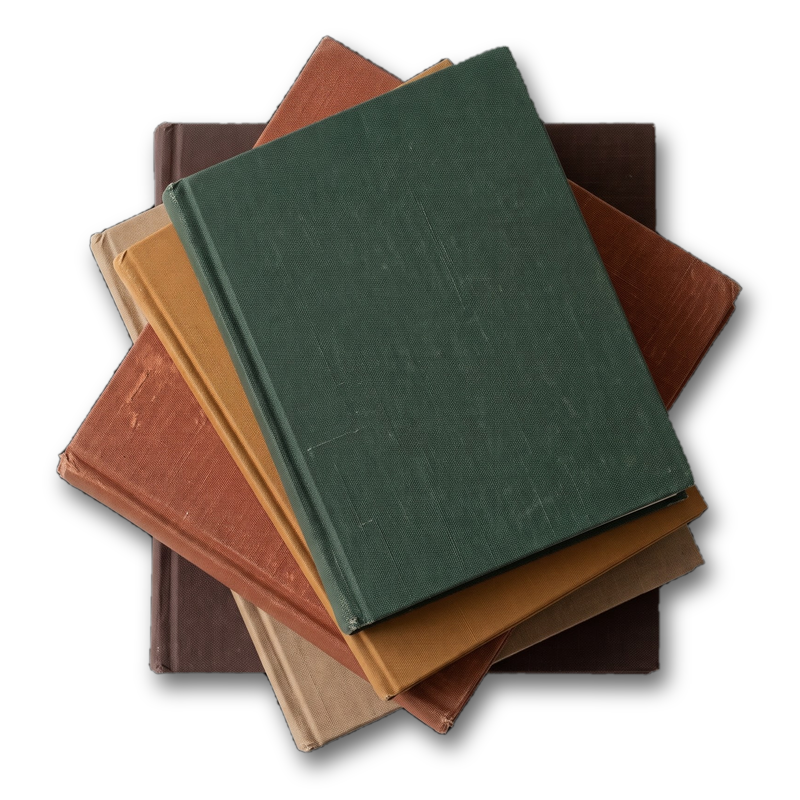
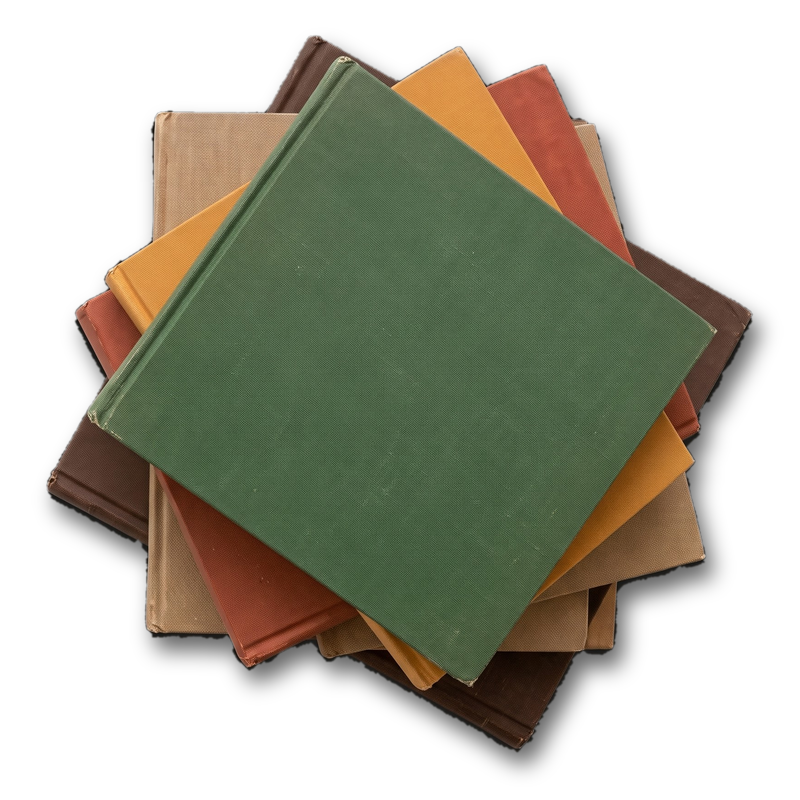
Book Playlists: Jörg's new square stack of cloth books, beside My Folder (the pencil and mug are gone)
Claude-Session: https://claude.ai/code/session_01NDsvQ4w6b4M39K7iEhCswz

diff --git a/src/screens/Shelf.js b/src/screens/Shelf.js
@@ -417,10 +417,8 @@ export function Library({ toBooks, toWip, onReadingOptions, onGarden, narrator, 
         {/* My Workspace: the notebook, Book Playlists, My Folder and the corkboard (Jörg, 29 Oct 2026) */}
         {!selecting && onNotebook ? <Text style={[styles.section, { marginTop: 0 }]} accessibilityRole="header">{t('My Workspace')}</Text> : null}
         {!selecting && onNotebook && controls.notebook ? <NotebookTile onPress={onNotebook} hidden={notebookHidden} onRect={onNotebookRect} /> : null}
-        {/* Book Playlists beside My Notebook (Jörg, 28 Oct 2026) */}
-        {!selecting && onPlaylists ? <Tile u={u} option cutout title={t('Book Playlists')} onPress={onPlaylists} cover={PLAYLISTS_STACK} /> : null}{/* Jörg's photo of five stacked felt books (27 Oct 2026) */}
         {!selecting && onNotebook ? <View style={{ width: '100%', height: 18 }} /> : null}{/* the notebook has its row to itself */}
-        {/* My Folder starts its own row: the folder (the size of a book), a pencil beside it, then a mug of hot chocolate */}
+        {/* My Folder starts its own row: the folder (the size of a book), Book Playlists beside it */}
         {!selecting ? (() => {
           const n = COLS(winW), colW = ((winW - 40) * TILE[n]) / 100, gap = ((winW - 40) * ((100 - n * TILE[n]) / (n - 1))) / 100;
           return (
@@ -446,12 +444,8 @@ export function Library({ toBooks, toWip, onReadingOptions, onGarden, narrator, 
                 </View>
                 <Text style={[styles.tileTitle, styles.tileOption]}>{t('My Folder')}</Text>
               </Pressable>
-              <View pointerEvents="none" style={{ width: tileWidth(winW), height: colW }}>
-                {/* (sideways: both a little further right, clear of the folder) a pencil and a mug of hot chocolate (turned 47° anticlockwise), each with a deep soft shadow to the
-                    bottom right (drawn into the pictures: the pencil 969 tall in 1237, the mug 452 × 439 in 856 × 843) */}
-                {(() => { const k = (colW * 0.46) / 969; return <Image source={PENCIL} resizeMode="stretch" style={{ position: 'absolute', left: colW * (winW > winH * 1.1 ? 0.14 : 0.06) - 134 * k, top: colW * 0.27 - 134 * k, width: 419 * k, height: 1237 * k }} />; })()}
-                {(() => { const k = (colW * 0.4) / 400; return <Image source={MUG} resizeMode="stretch" style={{ position: 'absolute', left: colW * (winW > winH * 1.1 ? 0.68 : 0.6) - (856 * k) / 2, top: colW * 0.48 - (843 * k) / 2, width: 856 * k, height: 843 * k }} />; })()}
-              </View>
+              {/* Book Playlists beside My Folder, in place of the pencil and mug (Jörg, 29 Oct 2026): his stack of cloth books, cut out */}
+              {onPlaylists ? <Tile u={u} option cutout title={t('Book Playlists')} onPress={onPlaylists} cover={PLAYLISTS_STACK} /> : null}
               {/* the corkboard: always at the very bottom, as wide as two books */}
               <View style={{ width: '100%' }} />
               <Corkboard width={2 * colW + gap} toast={toast} />
